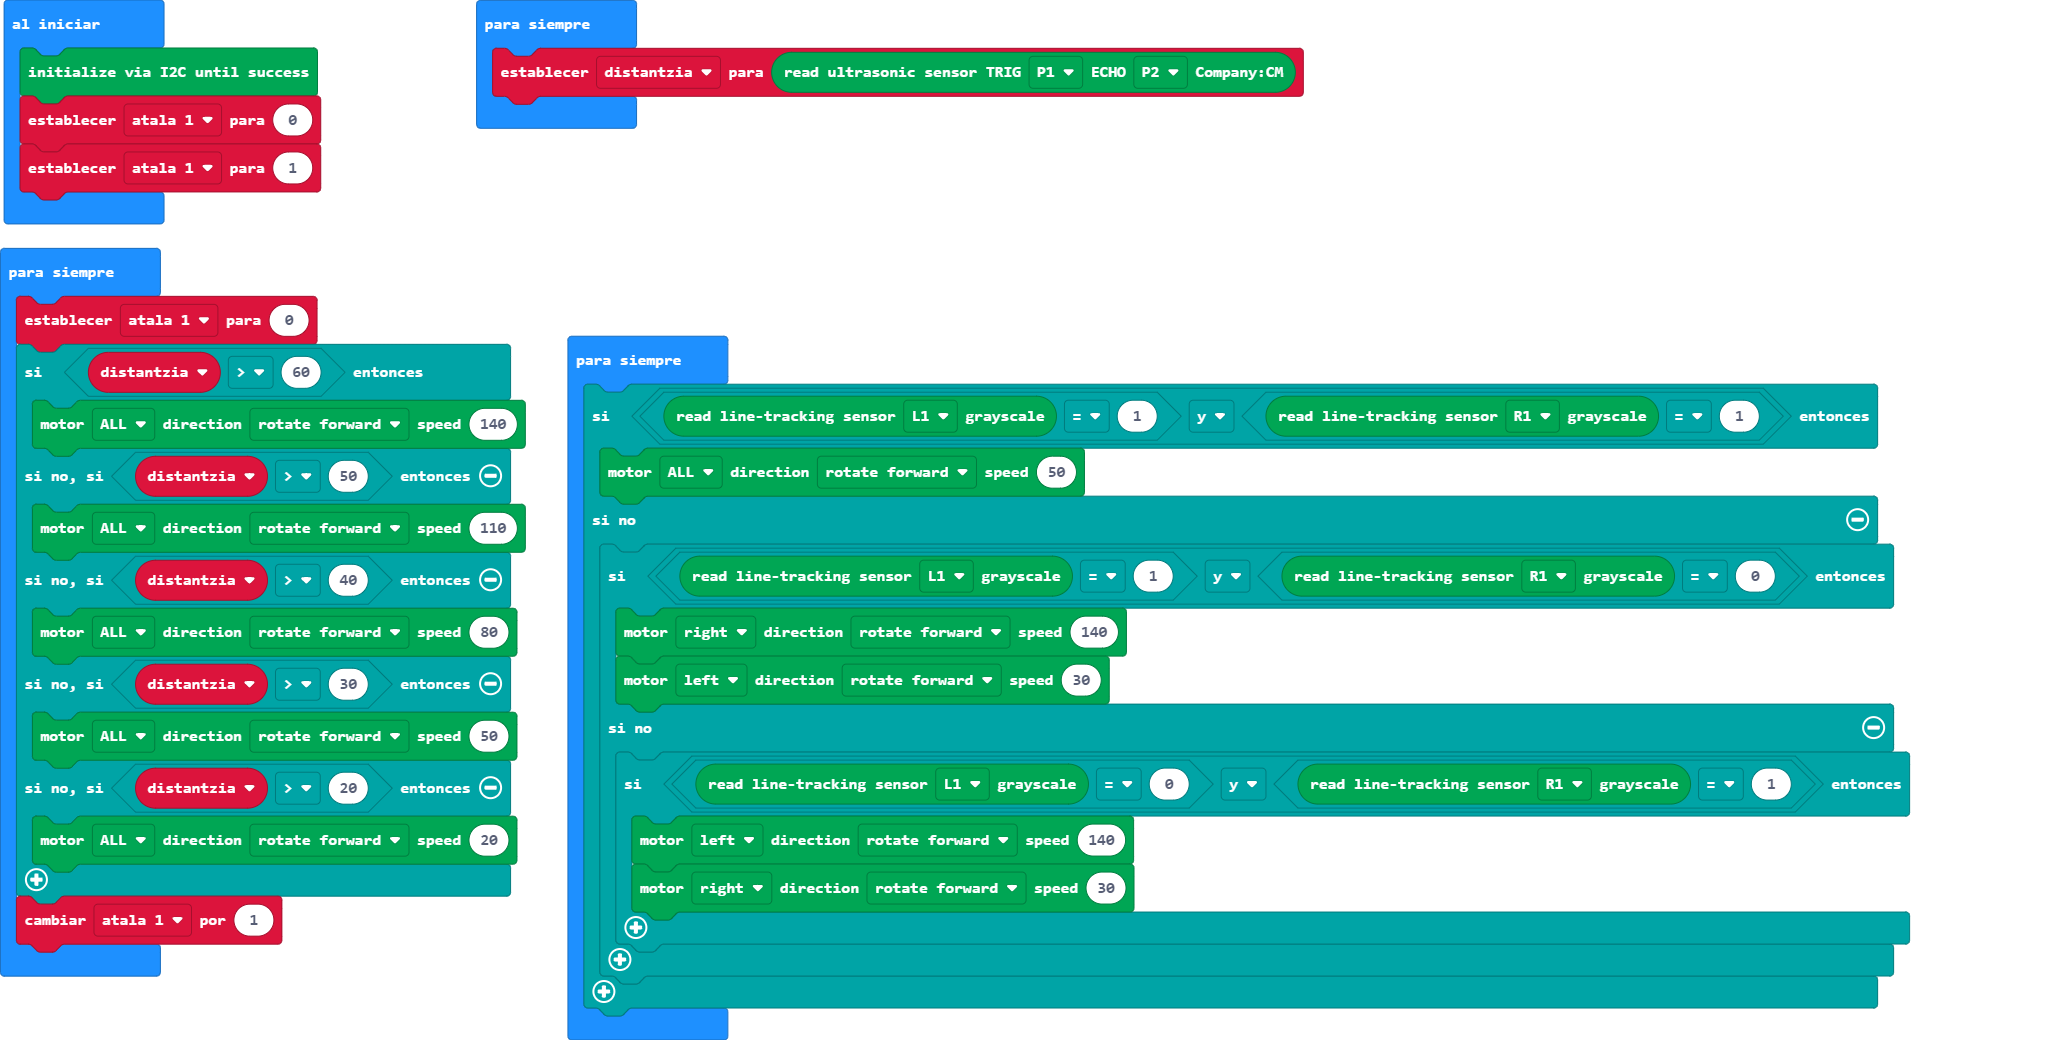
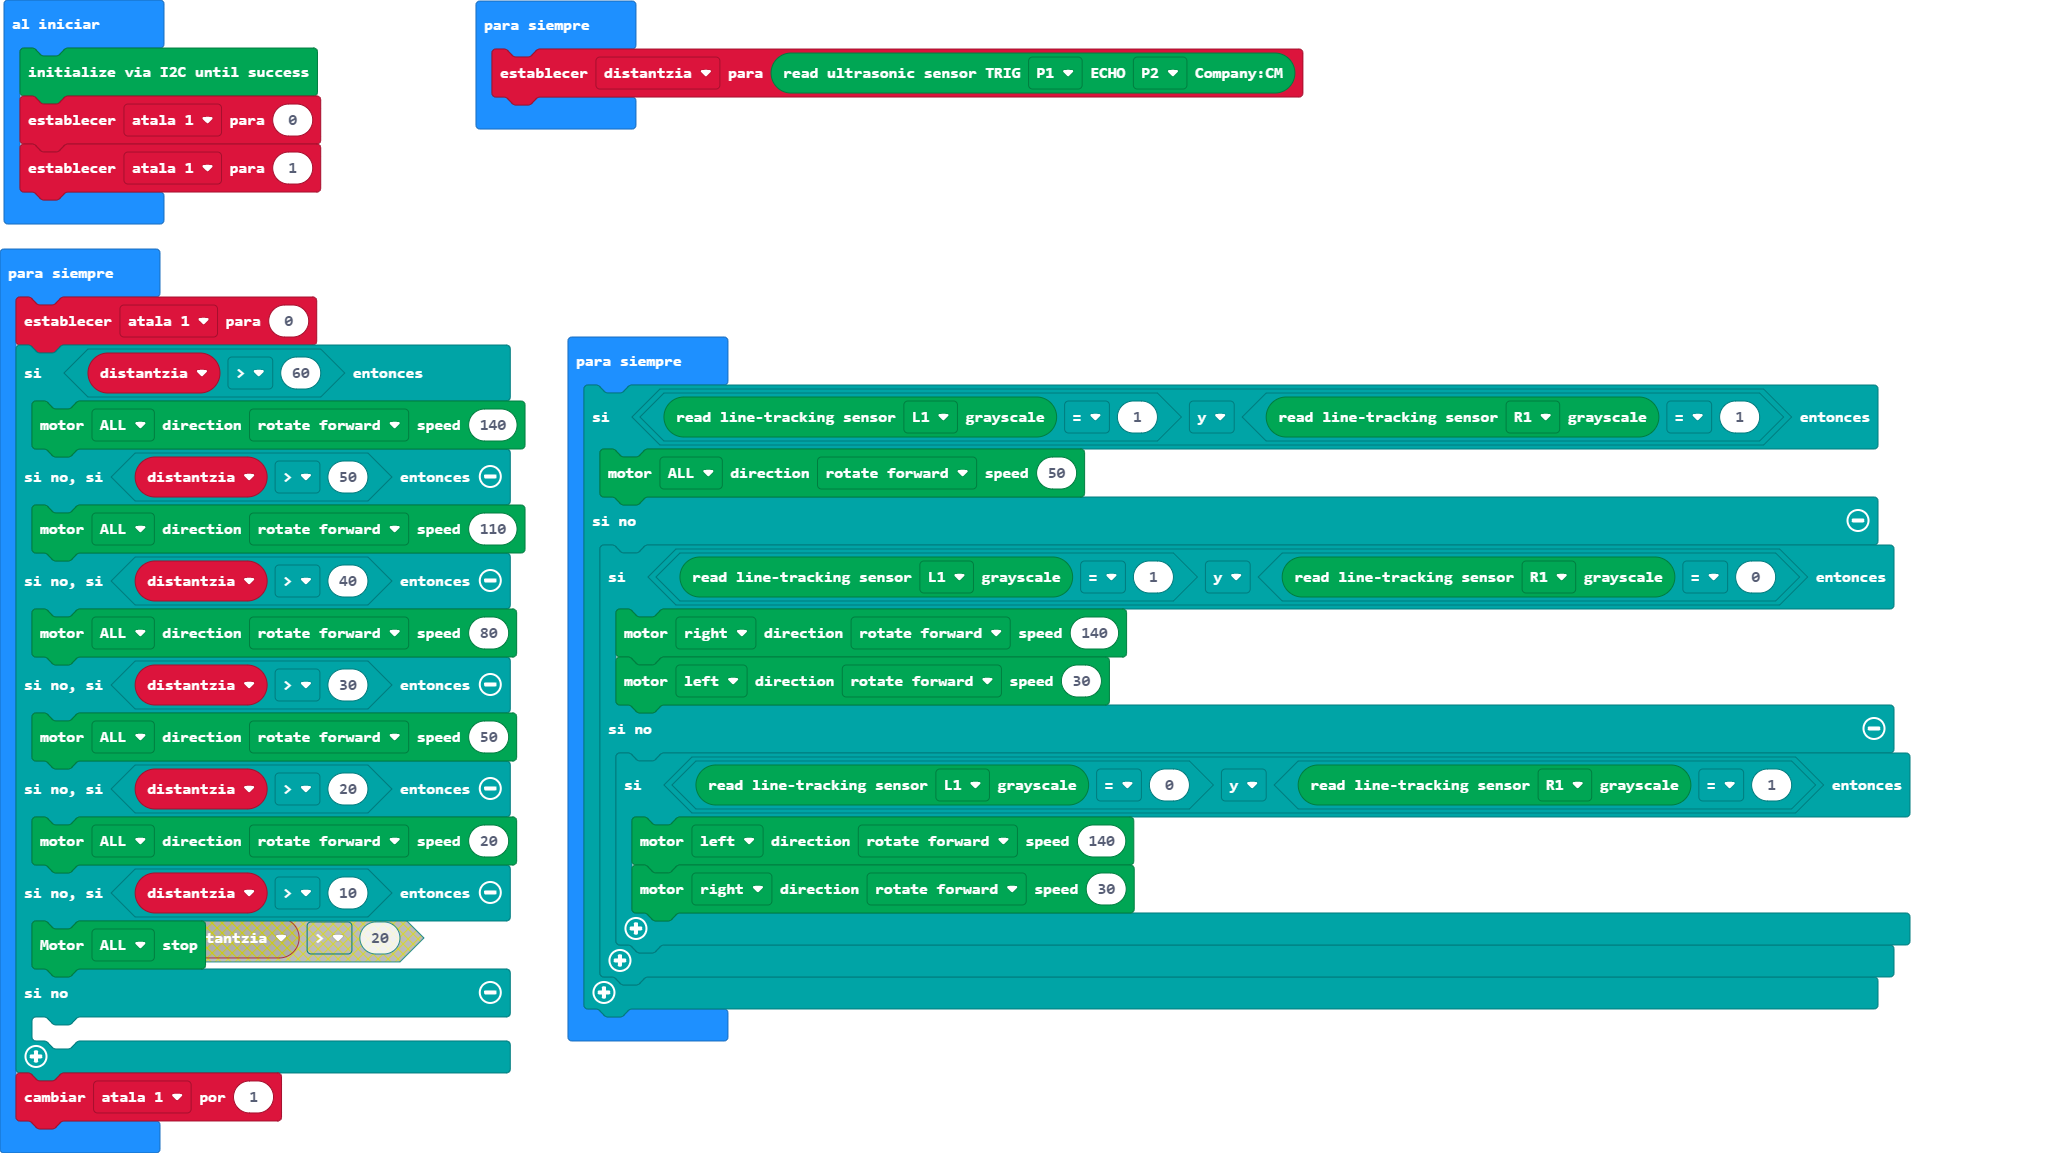
Actualizar main.blocks, main.ts

diff --git a/main.ts b/main.ts
@@ -17,6 +17,10 @@ basic.forever(function () {
         DFRobotMaqueenPlus.mototRun(Motors.ALL, Dir.CW, 50)
     } else if (distantzia > 20) {
         DFRobotMaqueenPlus.mototRun(Motors.ALL, Dir.CW, 20)
+    } else if (distantzia > 10) {
+        DFRobotMaqueenPlus.mototStop(Motors.ALL)
+    } else {
+    	
     }
     atala_1 += 1
 })
